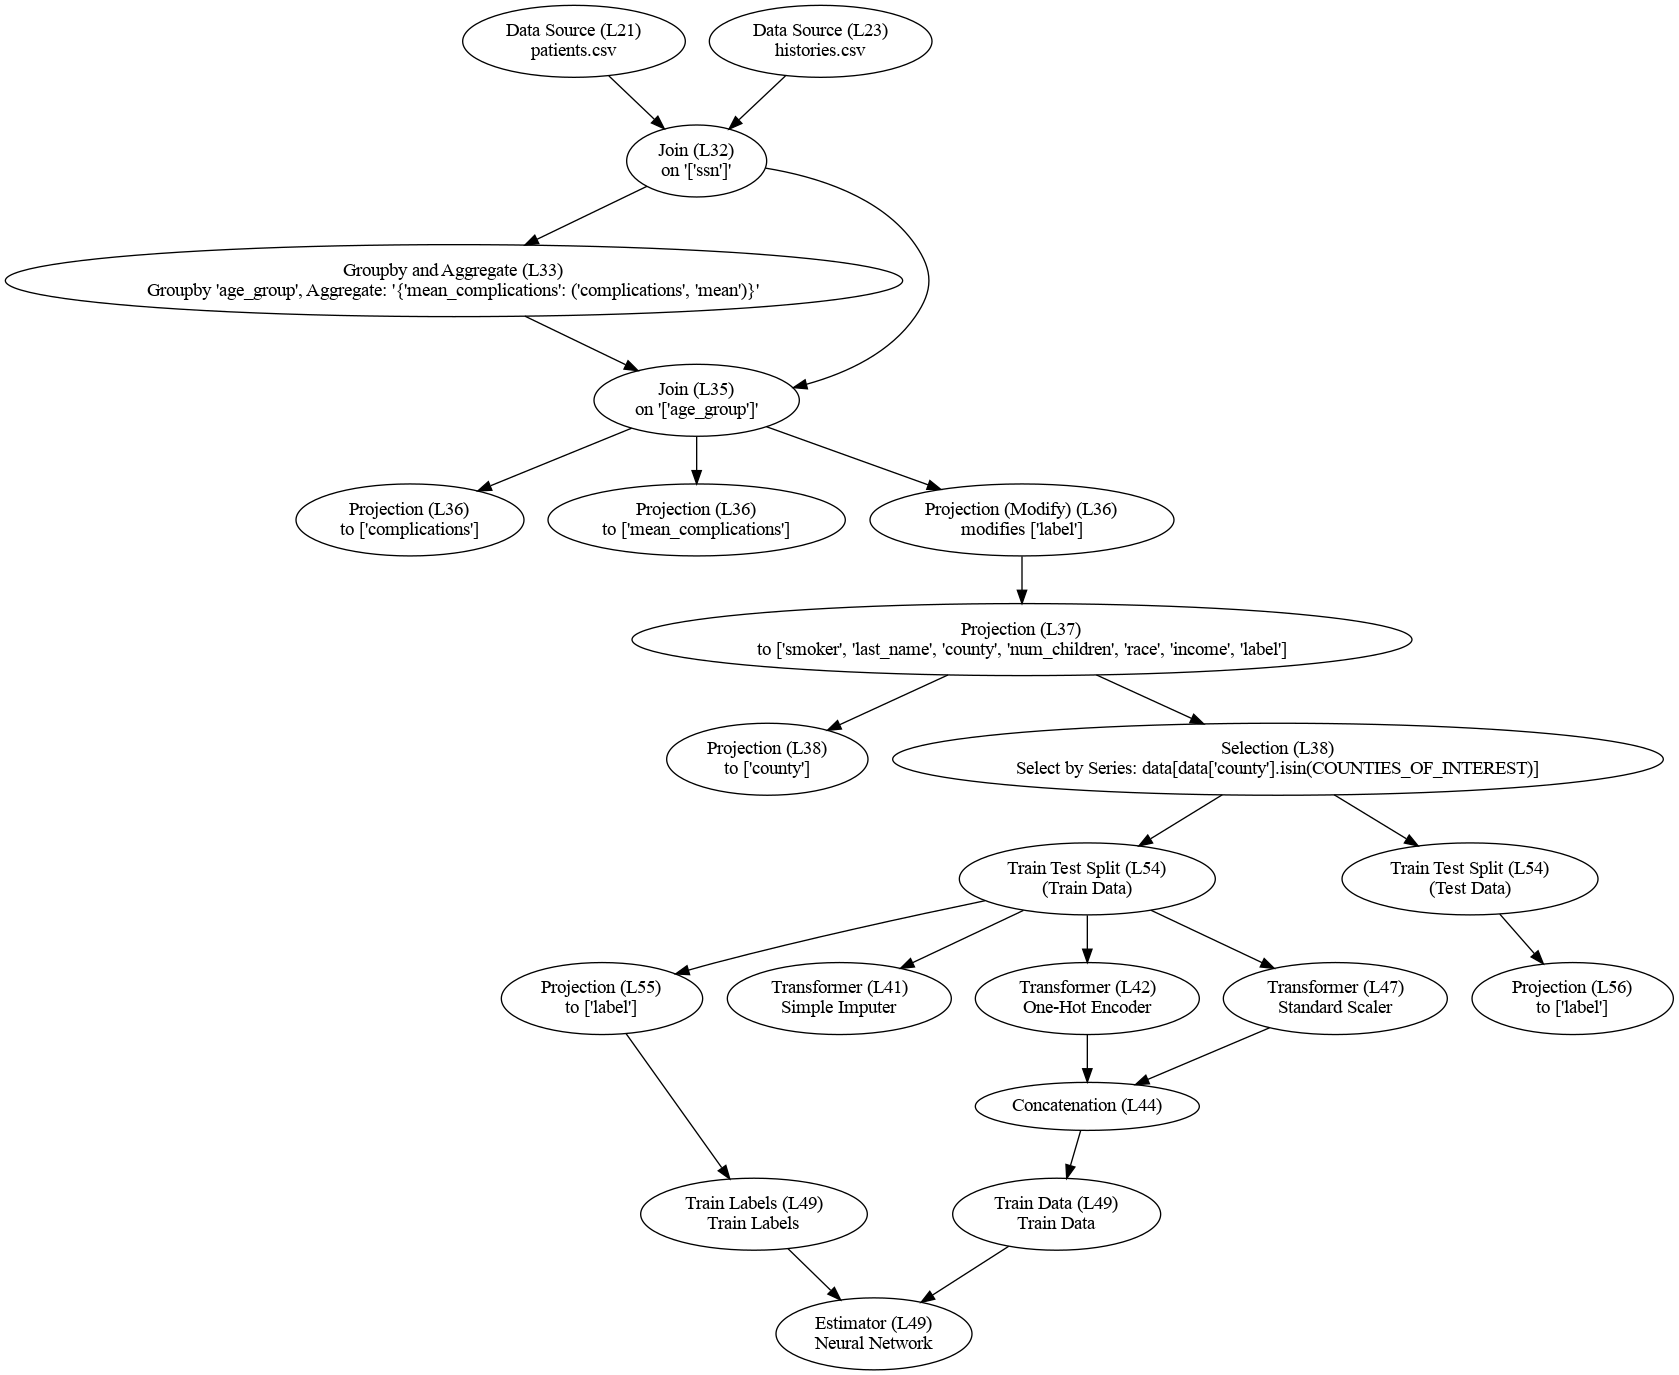
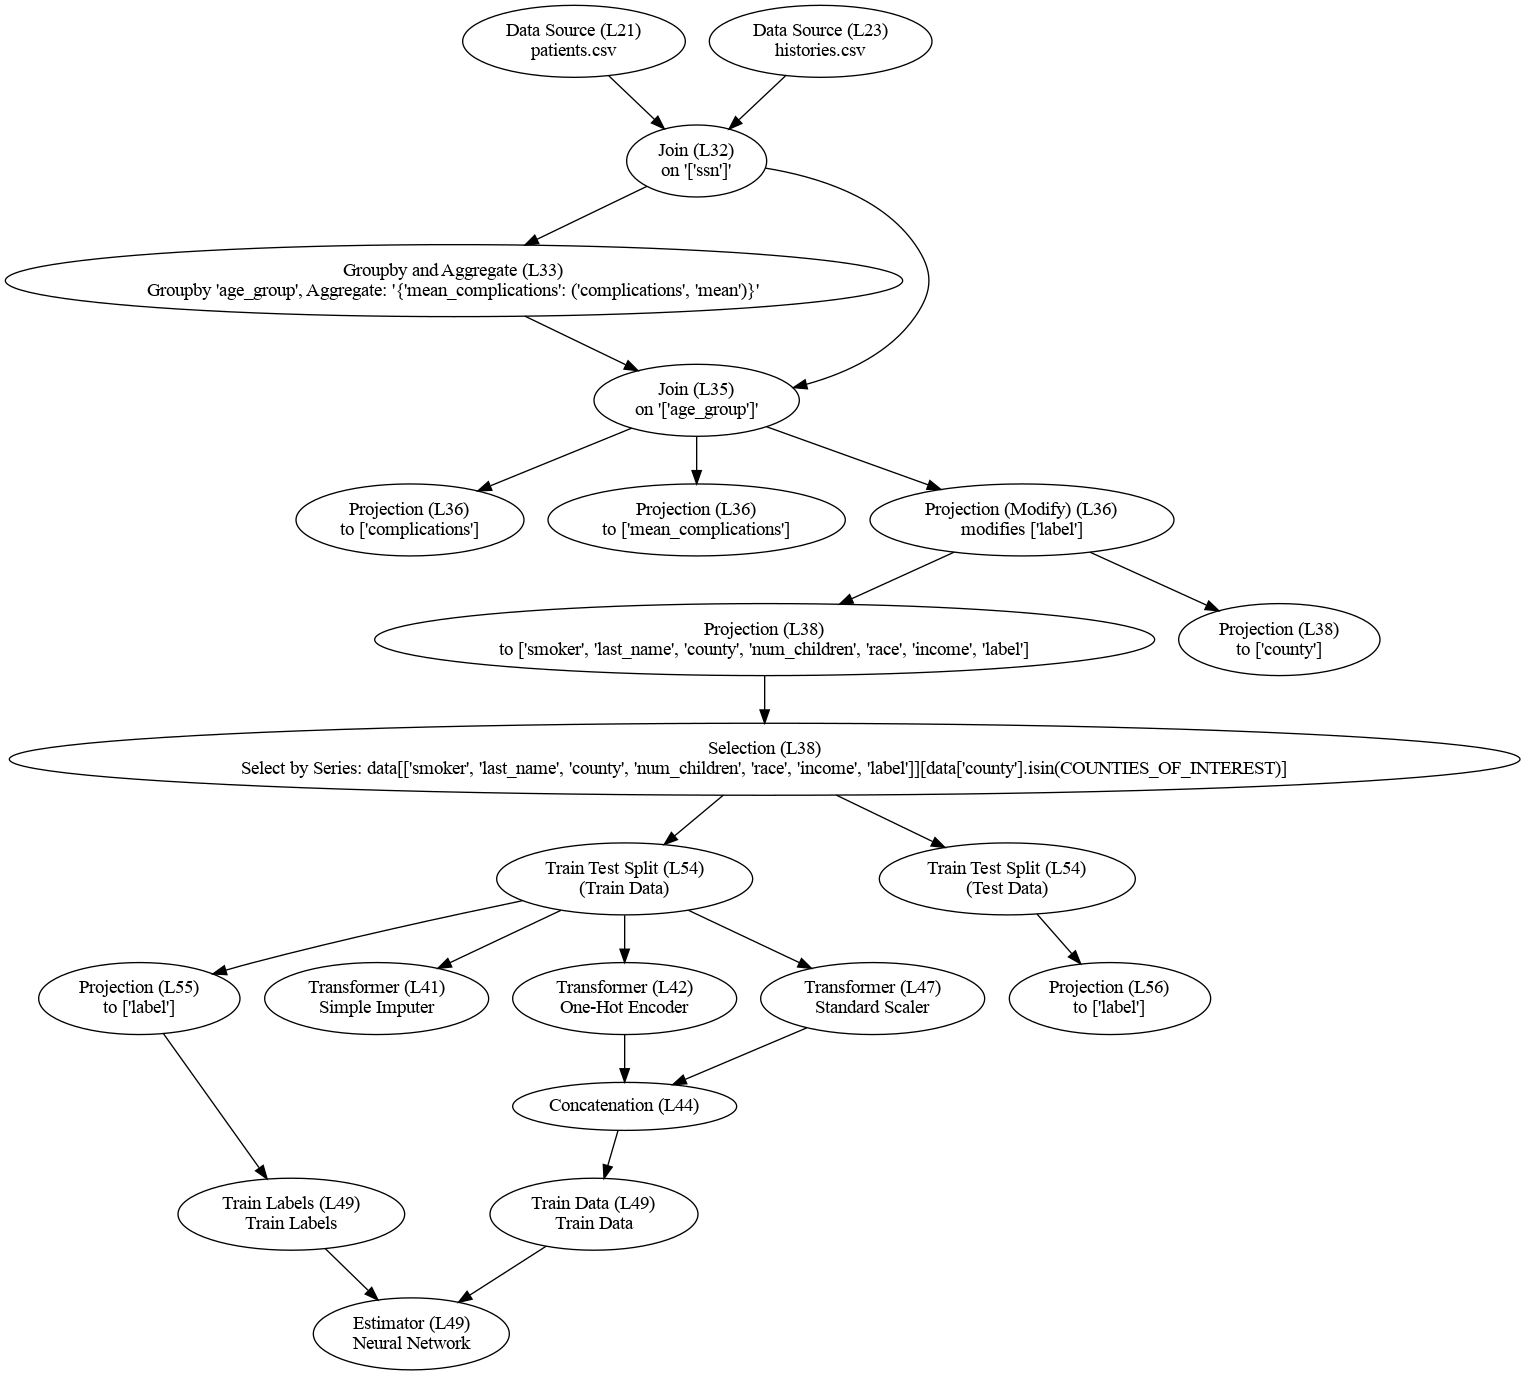
running benchmark

diff --git a/example_pipelines/test.py b/example_pipelines/test.py
@@ -80,17 +80,17 @@ def run_for_all(file_location, bias, mode="", materialize=None):
     # t1 = time.time()
     # print("\nTime spend with original: " + str(t1 - t0))
 
-    # t0 = time.time()
-    # run_inspection(file_location=file_location, bias=bias, to_sql=True, dbms_connector=dbms_connector_p, mode=mode,
-    #                materialize=materialize)
-    # t1 = time.time()
-    # print("\nTime spend with modified SQL inspections: " + str(t1 - t0))
-
     t0 = time.time()
-    run_inspection(file_location=file_location, bias=bias, to_sql=True, dbms_connector=dbms_connector_u, mode=mode,
-                   materialize=False)
+    run_inspection(file_location=file_location, bias=bias, to_sql=True, dbms_connector=dbms_connector_p, mode=mode,
+                   materialize=materialize)
     t1 = time.time()
     print("\nTime spend with modified SQL inspections: " + str(t1 - t0))
+    #
+    # t0 = time.time()
+    # run_inspection(file_location=file_location, bias=bias, to_sql=True, dbms_connector=dbms_connector_u, mode=mode,
+    #                materialize=False)
+    # t1 = time.time()
+    # print("\nTime spend with modified SQL inspections: " + str(t1 - t0))
 
 
 umbra_path = r"/home/luca/Documents/Bachelorarbeit/umbra-students"
@@ -154,52 +154,52 @@ def full_equality(pipeline_location, mode, materialized):
 if __name__ == "__main__":
     # h = r"/home/luca/Documents/Bachelorarbeit/BA_code/data_generation/generated_csv/healthcare_histories_generated_1000.csv"
     # p = r"/home/luca/Documents/Bachelorarbeit/BA_code/data_generation/generated_csv/healthcare_patients_generated_1000.csv"
-    h = r"/home/luca/Documents/Bachelorarbeit/mlinspect/test/monkeypatchingSQL/pipelines_for_tests/healthcare/histories.csv"
-    p = os.path.join(str(get_project_root()), "example_pipelines", "healthcare", "patients.csv")
-    setup_code, test_code = get_healthcare_pipe_code(path_patients=p, path_histories=h, only_pandas=False,
-                                                     include_training=False)
-    pipeline_code = setup_code + "\n" + test_code
-    script_scope = {}
-    exec(compile(pipeline_code, filename="xxx", mode="exec"), script_scope)
-    real_result = script_scope["result"]
-    print()
-
-    setup_code, test_code = get_sql_query(pipeline_code, mode="VIEW", materialize=False)
-    pipeline_code_sql = setup_code + "\n" + test_code
-    sql_result_p = dbms_connector_p.run(pipeline_code_sql)[0].astype(float)
-    sql_result_u = dbms_connector_u.run(pipeline_code_sql)[0].astype(float)
-    print()
-
-    result = np.allclose(np.sort(sql_result_p.flat, axis=0), np.sort(real_result.flat, axis=0)) and \
-             np.allclose(np.sort(sql_result_u.flat, axis=0), np.sort(real_result.flat, axis=0))
-
-    print(result)
-
-    setup_code, test_code = get_sql_query(pipeline_code, mode="CTE", materialize=False)
-    pipeline_code_sql = setup_code + "\n" + test_code
-    sql_result_p = dbms_connector_p.run(pipeline_code_sql)[0].astype(float)
-    sql_result_u = dbms_connector_u.run(pipeline_code_sql)[0].astype(float)
-    print()
-
-    result = np.allclose(np.sort(sql_result_p.flat, axis=0), np.sort(real_result.flat, axis=0)) and \
-             np.allclose(np.sort(sql_result_u.flat, axis=0), np.sort(real_result.flat, axis=0))
-
-    print(result)
-
-    setup_code, test_code = get_sql_query(pipeline_code, mode="VIEW", materialize=True)
-    pipeline_code_sql = setup_code + "\n" + test_code
-    sql_result_p = dbms_connector_p.run(pipeline_code_sql)[0].astype(float)
-    print()
-
-    result = np.allclose(np.sort(sql_result_p.flat, axis=0), np.sort(real_result.flat, axis=0))
-
-    print(result)
+    # h = r"/home/luca/Documents/Bachelorarbeit/mlinspect/test/monkeypatchingSQL/pipelines_for_tests/healthcare/histories.csv"
+    # p = os.path.join(str(get_project_root()), "example_pipelines", "healthcare", "patients.csv")
+    # setup_code, test_code = get_healthcare_pipe_code(path_patients=p, path_histories=h, only_pandas=False,
+    #                                                  include_training=False)
+    # pipeline_code = setup_code + "\n" + test_code
+    # script_scope = {}
+    # exec(compile(pipeline_code, filename="xxx", mode="exec"), script_scope)
+    # real_result = script_scope["result"]
+    # print()
+    #
+    # setup_code, test_code = get_sql_query(pipeline_code, mode="VIEW", materialize=False)
+    # pipeline_code_sql = setup_code + "\n" + test_code
+    # sql_result_p = dbms_connector_p.run(pipeline_code_sql)[0].astype(float)
+    # sql_result_u = dbms_connector_u.run(pipeline_code_sql)[0].astype(float)
+    # print()
+    #
+    # result = np.allclose(np.sort(sql_result_p.flat, axis=0), np.sort(real_result.flat, axis=0)) and \
+    #          np.allclose(np.sort(sql_result_u.flat, axis=0), np.sort(real_result.flat, axis=0))
+    #
+    # print(result)
+    #
+    # setup_code, test_code = get_sql_query(pipeline_code, mode="CTE", materialize=False)
+    # pipeline_code_sql = setup_code + "\n" + test_code
+    # sql_result_p = dbms_connector_p.run(pipeline_code_sql)[0].astype(float)
+    # sql_result_u = dbms_connector_u.run(pipeline_code_sql)[0].astype(float)
+    # print()
+    #
+    # result = np.allclose(np.sort(sql_result_p.flat, axis=0), np.sort(real_result.flat, axis=0)) and \
+    #          np.allclose(np.sort(sql_result_u.flat, axis=0), np.sort(real_result.flat, axis=0))
+    #
+    # print(result)
+    #
+    # setup_code, test_code = get_sql_query(pipeline_code, mode="VIEW", materialize=True)
+    # pipeline_code_sql = setup_code + "\n" + test_code
+    # sql_result_p = dbms_connector_p.run(pipeline_code_sql)[0].astype(float)
+    # print()
+    #
+    # result = np.allclose(np.sort(sql_result_p.flat, axis=0), np.sort(real_result.flat, axis=0))
+    #
+    # print(result)
 
     # PipelineInspector \
     #     .on_pipeline_from_string(pipeline_code) \
     #     .execute_in_sql(dbms_connector=None, mode="VIEW", materialize=True)
 
-    # run_for_all(file_location=HEALTHCARE_FILE_PY,       bias=HEALTHCARE_BIAS,       mode="CTE", materialize=False)
+    run_for_all(file_location=HEALTHCARE_FILE_PY,       bias=HEALTHCARE_BIAS,       mode="CTE", materialize=False)
     # run_for_all(file_location=HEALTHCARE_FILE_PY, bias=HEALTHCARE_BIAS, mode="VIEW", materialize=True)
     # run_for_all(file_location=COMPAS_FILE_PY,           bias=COMPAS_BIAS,           mode="VIEW", materialize=False)
     # run_for_all(file_location=ADULT_SIMPLE_FILE_PY,     bias=ADULT_SIMPLE_BIAS,     mode="VIEW", materialize=True)

diff --git a/example_to_sql/to_sql_inspection_benchmark.py b/example_to_sql/to_sql_inspection_benchmark.py
@@ -136,10 +136,10 @@ if __name__ == "__main__":
 
     pipeline_inspection_benchmark(HEALTHCARE_DATA_PATHS, healthcare_no_bias, mode="CTE",
                                   title="HealthcareInspectionComparisonCTE")
-    #
-    # print("Next benchmark starting!")
-    # pipeline_inspection_benchmark(HEALTHCARE_DATA_PATHS, healthcare_no_bias, mode="VIEW",
-    #                               title="HealthcareInspectionComparisonVIEW")
+
+    print("Next benchmark starting!")
+    pipeline_inspection_benchmark(HEALTHCARE_DATA_PATHS, healthcare_no_bias, mode="VIEW",
+                                  title="HealthcareInspectionComparisonVIEW")
 
     # print("Next benchmark starting!")
     # backup = SIZES

diff --git a/example_pipelines/healthcare/healthcare.py b/example_pipelines/healthcare/healthcare.py
@@ -34,8 +34,8 @@ complications = data.groupby('age_group') \
     .agg(mean_complications=('complications', 'mean'))
 data = data.merge(complications, on=['age_group'])
 data['label'] = data['complications'] > 1.2 * data['mean_complications']
-data = data[['smoker', 'last_name', 'county', 'num_children', 'race', 'income', 'label']]
-data = data[data['county'].isin(COUNTIES_OF_INTEREST)]
+# data =
+data = data[['smoker', 'last_name', 'county', 'num_children', 'race', 'income', 'label']][data['county'].isin(COUNTIES_OF_INTEREST)]
 
 impute_and_one_hot_encode = Pipeline([
     ('impute', SimpleImputer(strategy='most_frequent')),

diff --git a/mlinspect/to_sql/dbms_connectors/postgresql_connector.py b/mlinspect/to_sql/dbms_connectors/postgresql_connector.py
@@ -6,7 +6,7 @@ import pandas
 
 
 class PostgresqlConnector(Connector):
-    def __init__(self, dbname="", user="", password="", port="", host="", just_code=False, add_mlinspect_serial=False):
+    def __init__(self, dbname="", user="", password="", port="", host="", just_code=False, add_mlinspect_serial=True):
         """
         Note: For Postgresql:
             1) install Postgresql and start the server

diff --git a/mlinspect/monkeypatchingSQL/_patch_to_sql_sklearn.py b/mlinspect/monkeypatchingSQL/_patch_to_sql_sklearn.py
@@ -1540,7 +1540,8 @@ def retrieve_data_from_dbms_get_opt_backend(train_obj, backend_result=None, op_t
         cols = [cols]
 
     sql_code = f"SELECT {', '.join(cols)} " \
-               f"FROM {name}"
+               f"FROM {name} " \
+               f"ORDER BY index_mlinspect"
 
     singleton.pipeline_container.update_pipe_head(sql_code, comment=comment)
 

diff --git a/mlinspect/to_sql/dbms_connectors/umbra_connector.py b/mlinspect/to_sql/dbms_connectors/umbra_connector.py
@@ -12,7 +12,7 @@ import csv
 
 
 class UmbraConnector(Connector):
-    def __init__(self, dbname, user, password, port, host, umbra_dir=None, add_mlinspect_serial=False):
+    def __init__(self, dbname, user, password, port, host, umbra_dir=None, add_mlinspect_serial=True):
         """
         Starts a new empty Umbra server is 'DROP' is not implemented yet.
 
